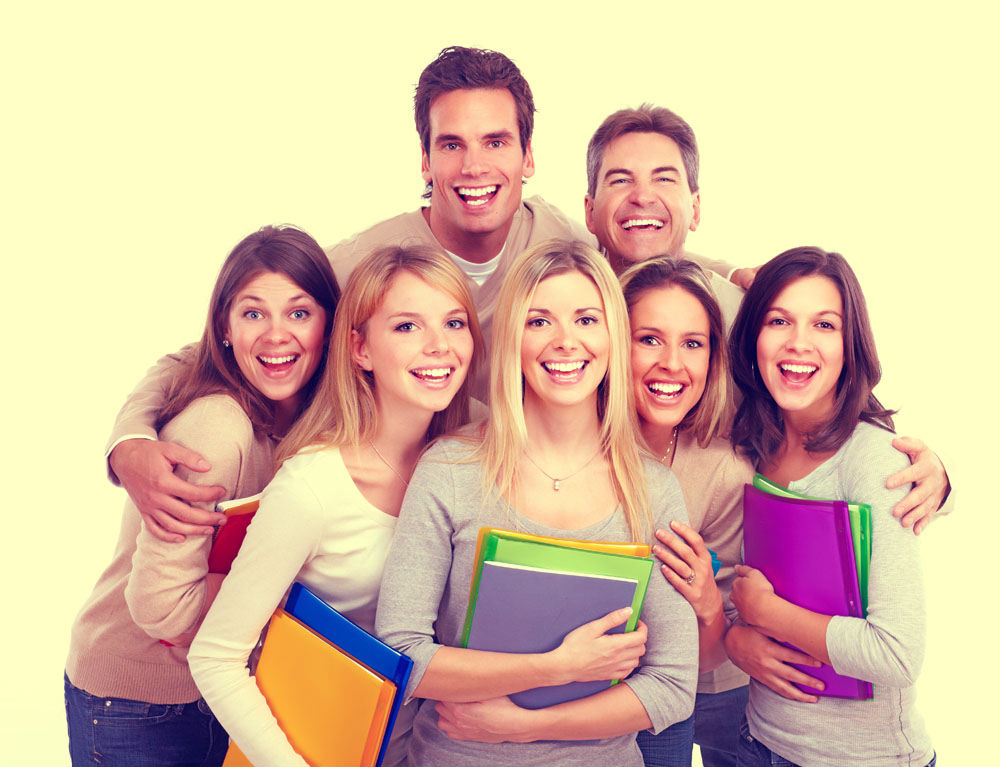
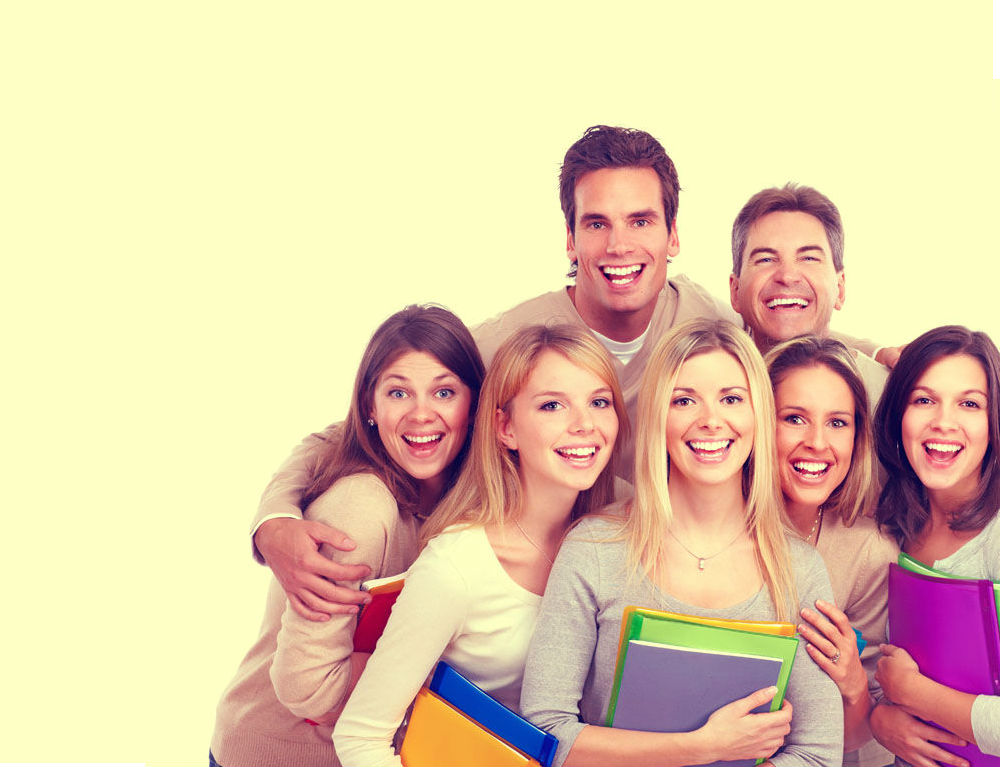
index complete. Needs side bar list.

diff --git a/index.html b/index.html
@@ -90,14 +90,14 @@
     </section>
     <!-- Wrapper Start -->
     <section >
-      <div class="parallax-container" data-parallax="scroll" data-bleed="15" data-speed="0.15" data-image-src="./img/student_group_change4.jpg" data-natural-width="1000" data-natural-height="800" style="height: 15%;">
+      <div class="parallax-container" data-parallax="scroll" data-bleed="15" data-speed="0.15" data-image-src="./img/student_group_change2.jpg" data-natural-width="1000" data-natural-height="800" style="height: 15%;">
         <div class="row">
-          <div class="col-md-7 col-sm-12" style="padding:20px 45px;width:45% ">
+          <div class="col-md-7 col-sm-12" style="padding:20px 45px;width:40% ">
             <div class="block" style="text-align: center;">
               <div class="section-title">
-                <h2 class="animated fadeInUp">About Us</h2>
+                <h2 class="animated fadeInUp" style="color: #000">About Us</h2>
               </div>
-              <p class="animated fadeInUp">Lorem ipsum dolor sit amet, consectetur adipisicing elit, sed do eiusmod tempor incididunt ut labore et dolore magna aliqua. Ut enim ad minim veniam, quis nostrud exercitation ullamco laboris nisi ut aliquip ex ea commodo consequat. Duis aute irure dolor in reprehenderit in voluptate velit esse cillum dolore eu fugiat nulla pariatur. Excepteur sint occaecat cupidatat non proident, sunt in culpa qui officia deserunt mollit anim id </p>
+              <p class="animated fadeInUp" style="color: #000">Lorem ipsum dolor sit amet, consectetur adipisicing elit, sed do eiusmod tempor incididunt ut labore et dolore magna aliqua. Ut enim ad minim veniam, quis nostrud exercitation ullamco laboris nisi ut aliquip ex ea commodo consequat. Duis aute irure dolor in reprehenderit in voluptate velit esse cillum dolore eu fugiat nulla pariatur. Excepteur sint occaecat cupidatat non proident, sunt in culpa qui officia deserunt mollit anim id </p>
             </div>
           </div><!-- .col-md-7 close -->
           <!-- .col-md-5 close -->
@@ -108,51 +108,19 @@
     <section id="feature_part2">
       <div class="container">
         <div class="row">
-          <div class="col-md-6 col-md-offset-6" style="text-align: center;">
-            <h2>WE BELIEVE IN GREAT IDEAS</h2>
-            <p >Maecenas faucibus mollis interdum. Morbi leo risus, porta ac consectetur ac, vestibulum at eros. Fusce dapibus, tellus ac cursus commodo, tortor mauris condimentum nibh, ut fermentum massa justo sit amet risus.</p>
-            
+          <div class="col-md-6 col-md-offset-6" >
+            <div class="block" style="text-align: center;padding-left: 55%">
+              <div class="section-title">
+                <h2 style="color: #fff">WE BELIEVE IN GREAT IDEAS</h2>
+              </div>
+            <p style="color: #fff">Maecenas faucibus mollis interdum. Morbi leo risus, porta ac consectetur ac, vestibulum at eros. Fusce dapibus, tellus ac cursus commodo, tortor mauris condimentum nibh, ut fermentum massa justo sit amet risus.</p>
             <a href="#" class="btn btn-view-works">View Works</a>
+          </div>
           </div>
         </div>
       </div>
     </section>
-    
-    <div style="margin: 0px;padding: 20px 45px; background-color: rgb(26, 54, 84);">
-      <div style="margin: 0px auto;padding: 0px;text-align: center;">
-        <div style="padding: 40px 0px 50px; opacity: 1; ">
-          <div class="block">
-            <h2 class="animated fadeInUp">Sign up for the ICES Newsletter</h2>
-          </div>
-          <div class="x-text cs-ta-center white sub-3">
-            <p>Our newsletter comes out seasonally four times a year and keeps you up to date with events, a letter from our president, John J. Crist, plus loads of fun stories and photos from our students around the world. </p>
-          </div><a class="x-btn as_form x-btn-global" href="#" data-options="thumbnail: ''">SIGN UP!</a>
-        </div>
-      </div>
-    </div>
-
-    <div class="parallax-container" data-parallax="scroll" data-bleed="10" data-speed="0.1" data-image-src="./img/student_group_change3.jpg" data-natural-width="1400" data-natural-height="1400" style="height: 442px;"></div>
-  <section id="feature_part1">
-    <div class="container">
-      <div class="row">
-        <div class="col-md-6 col-md-offset-6">
-          <h2 >WE BELIEVE IN GREAT IDEAS</h2>
-          <p >Maecenas faucibus mollis interdum. Morbi leo risus, porta ac consectetur ac, vestibulum at eros. Fusce dapibus, tellus ac cursus commodo, tortor mauris condimentum nibh, ut fermentum massa justo sit amet risus.</p>
-          <p >Maecenas faucibus mollis interdum. Morbi leo risus, porta ac consectetur ac, vestibulum at eros. Fusce dapibus, tellus ac cursus commodo, tortor mauris condimentum nibh, ut fermentum massa justo sit amet risus.</p>
-          <p >Maecenas faucibus mollis interdum. Morbi leo risus, porta ac consectetur ac, vestibulum at eros. Fusce dapibus, tellus ac cursus commodo, tortor mauris condimentum nibh, ut fermentum massa justo sit amet risus.</p>
-          <a href="#" class="btn btn-view-works">View Works</a>
-        </div>
-      </div>
-    </div>
-    
-    <div class="x-column x-sm x-1-2" style="padding: 0px; opacity: 1; transform: translate(0px, 0px); transition-duration: 750ms;" data-x-element="column" data-x-params="{&quot;fade&quot;:true}" data-fade="true"><div class="x-text sub-1"><h2>AMERICAN SCHOOL EXPERIENCE</h2>
-</div><div class="x-text sub-3"><p>Our American School Experience Program gives students ages 14-18 a taste of life in America with the opportunity to attend school for one, two or three months!</p>
-</div><a class="x-btn dark-btn x-btn-global" href="http://www.icesusa.org/american-school-experience" data-options="thumbnail: ''">LEARN MORE</a></div>
-    <div class="x-column x-sm x-1-2" style="padding: 0px 0 0px 0px;"><img class="x-img x-img-none" src=""></div>
-    
-  </section>
-     	   
-    <!-- Service Start -->
+      <!-- Service Start -->
     <section id="service">
       <div class="container">
         <div class="row">
@@ -190,6 +158,7 @@
               <p>Lorem ipsum dolor sit amet, consectetur adipisicing elit, sed do eiusmod tempor incididunt ut </p>
             </div>
           </div>
+          <!--
           <div class="col-sm-6 col-md-3">
             <div class="service-item">
               <i class="ion-headphone"></i>
@@ -218,19 +187,43 @@
               <p>Lorem ipsum dolor sit amet, consectetur adipisicing elit, sed do eiusmod tempor incididunt ut </p>
             </div>
           </div>
+        -->
         </div>
       </div>
     </section>
-    <!-- Call to action Start -->
-    <section id="call-to-action">
-      <div class="container">
-        <div class="row">
-          <div class="col-md-12">
-            <div class="block">
-              <h2>We design delightful digital experiences.</h2>
-              <p>Read more about what we do and our philosophy of design. Judge for yourself The work and results we’ve achieved for other clients, and meet our highly experienced Team who just love to design.</p>
-              <a class="btn btn-default btn-call-to-action" href="#" >Tell Us Your Story</a>
+
+  <!-- part 3 start-->
+  <section>
+    <div class="parallax-container" data-parallax="scroll" data-bleed="10" data-speed="0.1" data-image-src="./img/student_graduate.jpg" data-natural-width="800" data-natural-height="600" style="height: 700px;">
+      <div class="row">
+        <div class="col-md-6 col-md-offset-6">
+          <div class="block">
+            <div class="section-title">
+              <h2 >WE BELIEVE IN GREAT IDEAS</h2>
             </div>
+            <p >Maecenas faucibus mollis interdum. Morbi leo risus, porta ac consectetur ac, vestibulum at eros. Fusce dapibus, tellus ac cursus commodo, tortor mauris condimentum nibh, ut fermentum massa justo sit amet risus.</p>
+            <p >Maecenas faucibus mollis interdum. Morbi leo risus, porta ac consectetur ac, vestibulum at eros. Fusce dapibus, tellus ac cursus commodo, tortor mauris condimentum nibh, ut fermentum massa justo sit amet risus.</p>
+            
+            <a href="#" class="btn btn-view-works" style="margin-left: 40%">View Works</a>
+            
+          </div>
+        </div>
+      </div>
+    </div>
+  </section>
+
+  
+    <!-- sign up Start -->
+    <section style="height: 300px; margin: 0px;padding: 20px 45px; background-color: rgb(26, 54, 84);">
+      <div class="container" style="margin: 0px auto;padding: 0px;text-align: center;">
+        <div class="row" >
+          <div class="col-md-12" >
+            <div class="block">
+              <h2 class="animated fadeInUp">Sign up for the ICES Newsletter</h2>
+            </div>
+            <p>Our newsletter comes out seasonally four times a year and keeps you up to date with events, a letter from our president, John J. Crist, plus loads of fun stories and photos from our students around the world. </p>
+            <a class="btn btn-sign-up" href="#" >SIGN UP!</a>
+          </div>
           </div>
         </div>
       </div>
@@ -240,8 +233,8 @@
       <div class="container">
         <div class="row">
           <div class="section-title text-center">
-            <h2>Fun Facts About Us</h2>
-            <p>Far far away, behind the word mountains, far from the countries Vokalia and Consonantia, there live the blind texts. Separated they live in Bookmarksgrove right at the coast of the Semantics</p>
+            <h2 style="color: #000">Fun Facts About Us</h2>
+            <p style="color: #000">Far far away, behind the word mountains, far from the countries Vokalia and Consonantia, there live the blind texts. Separated they live in Bookmarksgrove right at the coast of the Semantics</p>
           </div>
         </div>
         <div class="row">
@@ -337,7 +330,7 @@
                 <li><a href="#">Terms</a></li>
               </ul>
             </div>
-            <p>Copyright &copy; Design & More Templates <a href="http://www.cssmoban.com/" target="_blank" title="模板之家">模板之家</a> - Collect from <a href="http://www.cssmoban.com/" title="网页模板" target="_blank">网页模板</a>. All rights reserved.</p>
+            <p>Copyright &copy; All rights reserved.</p>
           </div>
         </div>
       </div>

diff --git a/css/style.css b/css/style.css
@@ -175,62 +175,21 @@ font header .navbar-default .navbar-nav li a:hover {
 }
 #service .service-item i {
   font-size: 60px;
-  color: #4A4656;
+  color: #FF7F00;
 }
 #service .service-item h4 {
   padding-top: 20px;
   margin: 0;
-  color: #666;
+  color: #fff;
 }
 #service .service-item p {
-  color: #888;
+  color: #fff;
   padding-top: 10px;
   margin: 0;
   font-size: 14px;
   line-height: 1.8;
 }
-/*--
-	call-to-action Start 
---*/
-#call-to-action {
-  background: url("../img/call-to-action-bg.jpg") no-repeat;
-  background-size: cover;
-  background-attachment: fixed;
-  padding: 70px 0px;
-  position: relative;
-  text-align: center;
-  color: #fff;
-}
-#call-to-action:before {
-  content: "";
-  position: absolute;
-  left: 0;
-  right: 0;
-  top: 0;
-  bottom: 0;
-  width: 100%;
-  height: 100%;
-  background: #1d192c;
-  opacity: 0.8;
-}
-#call-to-action h2 {
-  padding-bottom: 20px;
-  line-height: 33px;
-  margin: 0;
-  font-size: 30px;
-}
-#call-to-action p {
-  font-size: 14px;
-  line-height: 1.6;
-}
-#call-to-action .btn-call-to-action {
-  padding: 15px 35px;
-  border: none;
-  background-color: #fff;
-  font-size: 15px;
-  color: #333333;
-  margin-top: 30px;
-}
+
 /*--
 	Feature Start 
 --*/
@@ -280,8 +239,7 @@ font header .navbar-default .navbar-nav li a:hover {
 
 }
 #feature_part2 {
-  background: url("../img/student_reading_change4.jpg");
-  background-position: 45% 100px;
+  background: url("../img/student_reading_change3.jpg");
   width: 100%;
   display: block;
   position: relative;
@@ -297,9 +255,9 @@ font header .navbar-default .navbar-nav li a:hover {
   box-sizing: border-box;
   -webkit-backface-visibility: hidden;
   backface-visibility: hidden;
-  padding: 5% 0;
-
+  padding: 2% 0;
 }
+
 #feature_part2 h2 {
   font-size: 28px;
   font-weight: 600;
@@ -312,12 +270,22 @@ font header .navbar-default .navbar-nav li a:hover {
   margin-bottom: 20px;
 
 }
-#feature .btn-view-works {
-  background: #655E7A;
+
+#feature_part2 .btn-view-works {
+  background: #FF7F00;
   color: #fff;
   padding: 10px 20px;
 }
-
+.btn-view-works {
+  background: #FF7F00;
+  color: #fff;
+  padding: 10px 20px;
+}
+.btn-sign-up {
+  background: #FF7F00;
+  color: #fff;
+  padding: 10px 20px;
+}
 /*--
 	content Start 
 --*/
@@ -327,7 +295,7 @@ font header .navbar-default .navbar-nav li a:hover {
 #testimonial .block h2 {
   line-height: 27px;
   color: #5C5C5C;
-  padding-top: 110px;
+  padding-top: 100px;
 }
 #testimonial .block p {
   padding-top: 50px;

diff --git a/css/owl.carousel.css b/css/owl.carousel.css
@@ -19,6 +19,12 @@
 	width: 100%;
 	-ms-touch-action: pan-y;
 }
+.owl-carousel p {
+  font-size: 15px;
+  line-height: 28px;
+  font-weight: bold;
+  color:#000;
+}
 .owl-carousel .owl-wrapper{
 	display: none;
 	position: relative;
